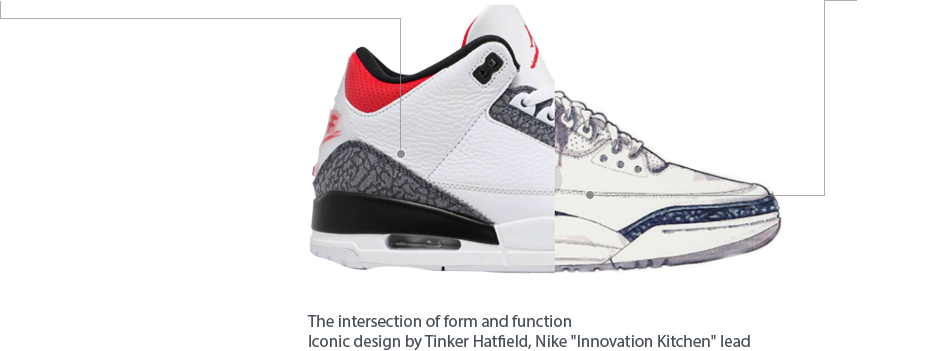
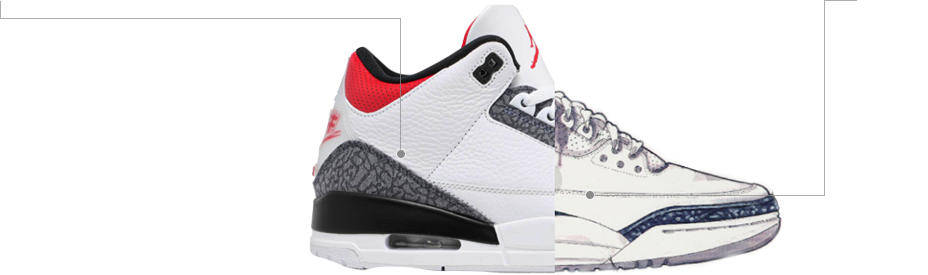
Updating skills bg image text to be html

Changed region(s): [[0.3125, 0.0582, 0.875, 1.0], [0.0, 0.0291, 0.4375, 0.0873]]

diff --git a/src/components/Experience/Timeline/Timeline.js b/src/components/Experience/Timeline/Timeline.js
@@ -1,9 +1,8 @@
 // Sourced: https://codepen.io/acxix92/pen/yzOazE
 
-import React, { useEffect, useState } from "react"
+import React, { useEffect } from "react"
 import "./Timeline.css" // resolved navigation bug
 import initiateTimeline from "./Timeline-script" // cleared some minor compilation errors. "Warnings" TBA
-import $ from "JQuery"
 
 const Timeline = () => {
   // address: timeline does not resize with window, so end of line ends up short
@@ -87,8 +86,8 @@ const Timeline = () => {
                         <p>
                           Oversaw all aspects of design and development of two
                           catalog websites for travel accessories and gift
-                          baskets. This contributed to record sales by the end
-                          of his tenure.
+                          baskets, contributing to record sales by the end of
+                          his tenure.
                         </p>
                       </div>
                     </div>
@@ -131,7 +130,7 @@ const Timeline = () => {
                           all project details, adhering to timelines, liasing
                           with clients and supporting backend developers, with
                           QA, art direction and usability, for desktop, mobile
-                          and app development.
+                          and application development.
                         </p>
                         <p>
                           <span className="font-weight-bold">
@@ -196,7 +195,7 @@ const Timeline = () => {
                     <div className="row">
                       <div className="col-lg-8 offset-lg-2 pl-0">
                         <p>
-                          The front end role here was devided into fullstack
+                          The front end role here was divided into fullstack
                           Wordpress development (backend was new to me) and
                           supporting a fortune 500 client website - implementing
                           and debugging GEO specific content.
@@ -207,7 +206,7 @@ const Timeline = () => {
                           100+ tickets for product releases) coordinating with
                           several offsite teams, for quality assurance,
                           translations, direction from client leads and all the
-                          communication streams for tickets in flight.
+                          communication with teams for tickets in flight.
                         </p>
                       </div>
                     </div>
@@ -224,14 +223,14 @@ const Timeline = () => {
                           application framework, with Django and Python.
                         </p>
                         <p>
-                          Later migrated to Craft CMS and Bootstrap to ramp
-                          delivery pace, to meet Marketing needs. This developed
-                          knowledge in "systems thinking", querying with
-                          efficiency in mind, ie. fullstack development &mdash;
-                          in addition to A/B testing, modern SEO practices, site
-                          speed optimizations (I was more of a passenger here,
-                          but I was front row and center) and object
-                          based JavaScript.
+                          Later migrated to Craft CMS and Bootstrap to
+                          significantly increase the pace of delivery, to meet
+                          Marketing needs. This developed knowledge in "systems
+                          thinking", querying with efficiency in mind, ie.
+                          fullstack development with Craft &mdash; in addition
+                          to A/B testing, modern SEO practices, site speed
+                          optimizations (I was more of a passenger here, but I
+                          was front row and center) and object based JavaScript.
                         </p>
                       </div>
                     </div>
@@ -249,11 +248,11 @@ const Timeline = () => {
                         <p>
                           This site is part of my discovery into these tools and
                           best viewed through that lense, as a working copy, as
-                          speed was also a driver here.
+                          speed to delivery was also a driver here.
                         </p>
                         <aside>
-                          Quick side note. This is a migration in progress from
-                          a static variation of this site.
+                          Quick side note. This site is a migration in progress
+                          from a former static version of this site.
                         </aside>
                         <p>So stay tuned. Many enhancements are on the way!</p>
 

diff --git a/src/scss/components/_Skills.scss b/src/scss/components/_Skills.scss
@@ -11,21 +11,43 @@
     }
   }
   &__content {
+    font-size: 0.9rem;
     text-align: left;
     @include media-breakpoint-up(md) {
-      background-image: url(../images/skills-bg-sm.png);
+      background-image: url(../images/skills-bg.png);
       background-repeat: no-repeat;
       background-size: 90%;
       background-position: 4px 15px;
     }
     @include media-breakpoint-up(lg) {
       background-size: 84%;
-      background-position: 3px 15px;
+      background-position: 3px 14px;
     }
     @include media-breakpoint-up(xl) {
       background-image: url(../images/skills-bg.png);
       background-size: 92%;
       background-position: 3px 15px;
+    }
+    .mouse-text {
+      font-size: 0.7rem;
+      width: 43%;
+      top: 49%;
+      left: 30%;
+      @include media-breakpoint-up(lg) {
+        font-size: 0.5rem;
+        width: 45%;
+        top: 35%;
+        left: 28%;
+      }
+      // update so bg image is inline, removing need for top positioning
+      @media (min-width: 1199.98px) and (max-width: 1300px) {
+        top: 46%;
+        left: 31%;
+      }
+      @media (min-width: 1300px) {
+        top: 53.5%;
+        left: 30.75%;
+      }
     }
   }
   .bullet:before {

diff --git a/src/components/About.js b/src/components/About.js
@@ -53,7 +53,7 @@ const About = () => (
               </a>
             </p>
           </div>
-          <div className="col-12 col-lg-7 pl-lg-5 pl-xl-8 skills">
+          <div className="col-12 col-lg-7 pl-lg-5 pl-xl-8 skills position-relative">
             <div className="row skills__content position-relative text-center text-md-left js_skills mx-1 mx-sm-0">
               <div className="col-12 col-sm-6 px-0 pb-7 pb-sm-5 pb-md-3 skills__col text-center text-sm-left">
                 <h4 className="bullet pb-md-2">Hard skills</h4>
@@ -104,6 +104,11 @@ const About = () => (
                     stronger
                   </span>
                 </div>
+              </div>
+              <div className="position-absolute mouse-text d-none d-md-block">
+                The intersection of form and function
+                <br />
+                Iconic design by Tinker Hatfield, Nike "Innovation Kitchen" lead
               </div>
             </div>
           </div>

diff --git a/src/components/Animation.js b/src/components/Animation.js
@@ -18,10 +18,14 @@ const Animation = ({ animElements, animContainer }) => {
   const isElementInViewport = el => {
     const screenTop = $(window).scrollTop()
     const elementTop = $(el).offset().top
+    const elementBottom = $(el).offset().bottom
     const screenBottom = screenTop + $(window).innerHeight()
     const elementHeight = $(el).outerHeight()
-    const threeQuartersHeight = elementTop + elementHeight * 0.75
-    if (screenBottom > threeQuartersHeight && screenTop < elementTop) {
+    const halfHeight = elementTop + elementHeight * 0.5
+    if (
+      (screenBottom > halfHeight && screenTop < elementTop) ||
+      (screenTop > elementTop + halfHeight && screenBottom > elementBottom)
+    ) {
       render()
     }
   }

diff --git a/src/scss/components/Hero/_Hero.scss b/src/scss/components/Hero/_Hero.scss
@@ -60,10 +60,11 @@
     bottom: -40%;
     @include media-breakpoint-up(sm) {
       z-index: 1;
-      width: 100%;
+      width: 98%;
+      left: 0.5%;
       opacity: 0.9;
       &.animate {
-        bottom: 0;
+        bottom: 2%;
         transition: all 1.5s ease;
       }
     }
